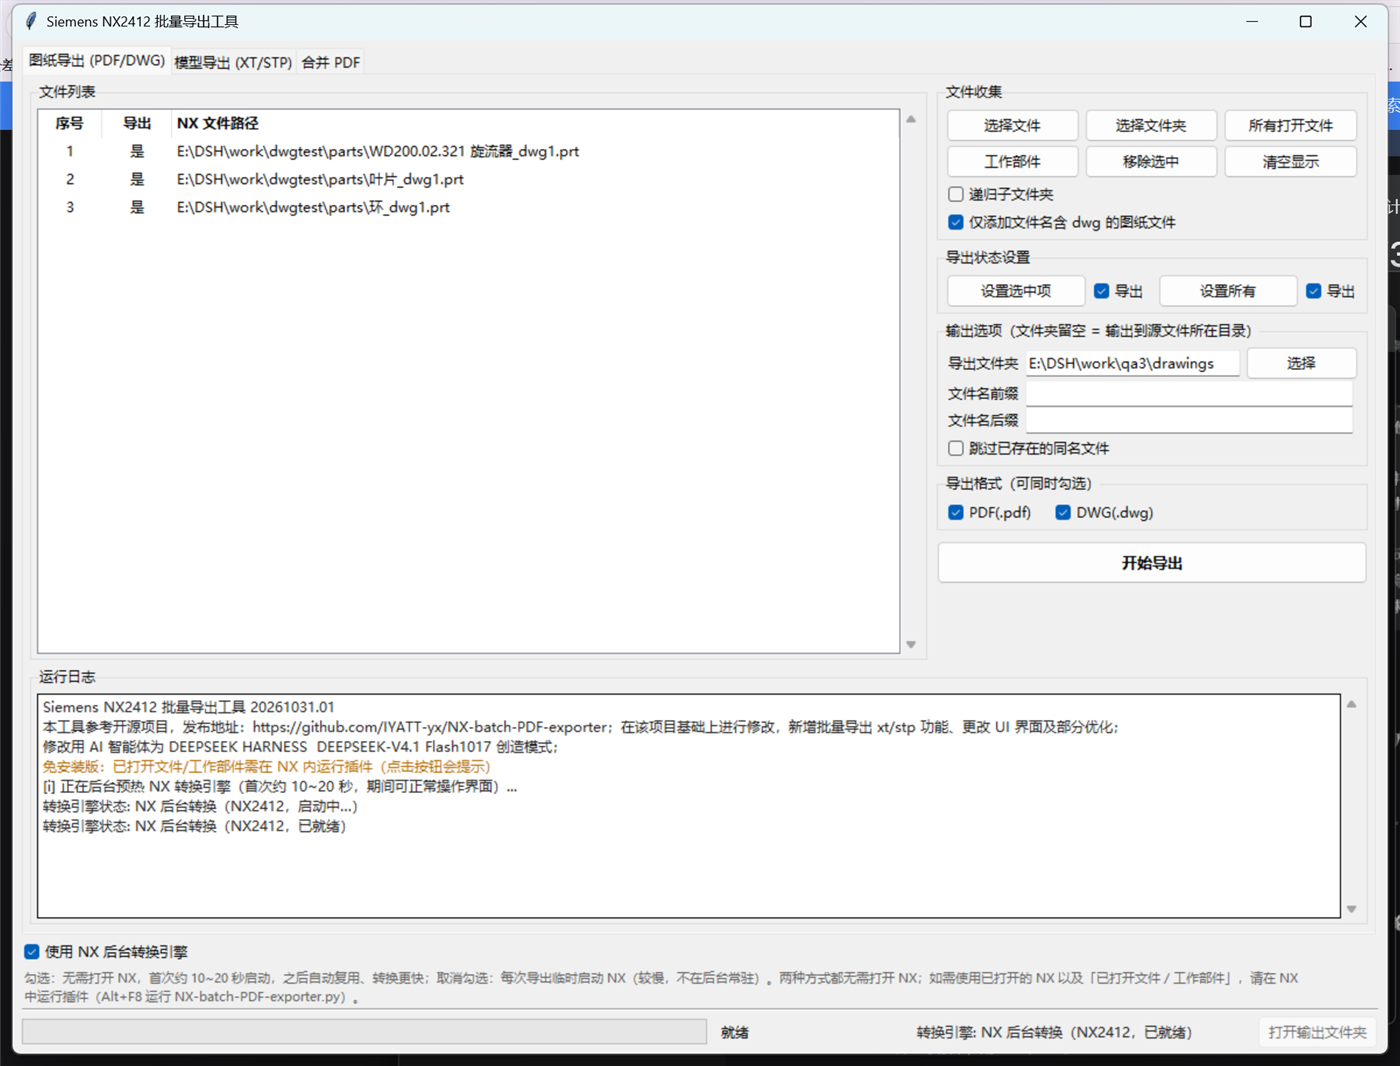
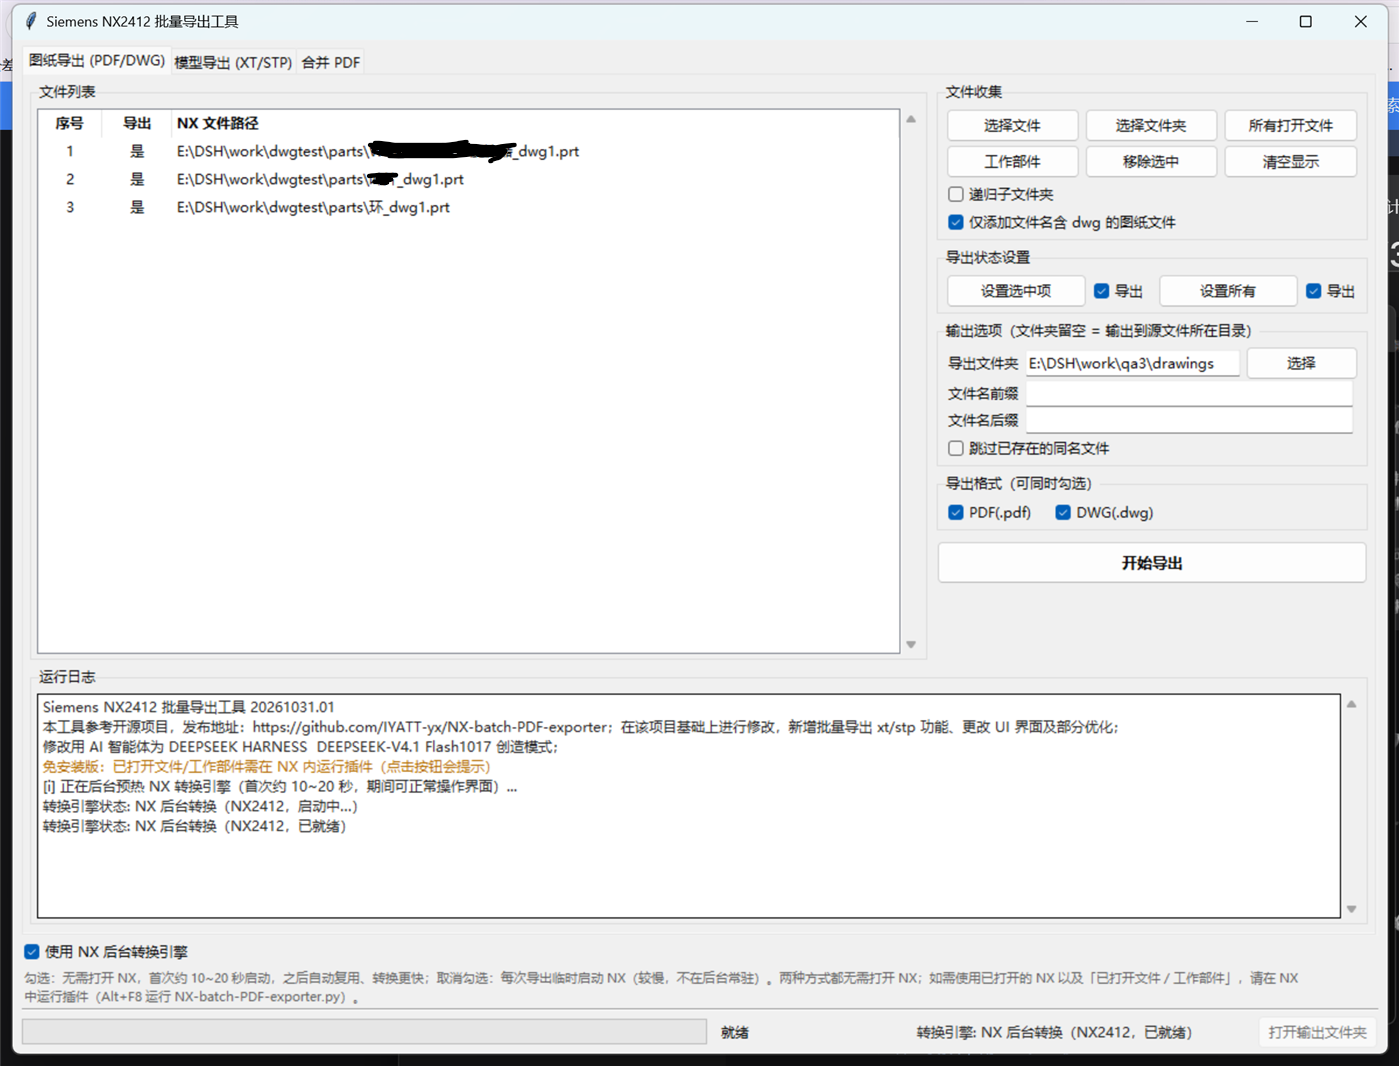
替换 README 第一张图为便携版图纸导出界面

diff --git a/README.md b/README.md
@@ -7,7 +7,7 @@
 > 本工具参考开源项目 [NX-batch-PDF-exporter](https://github.com/IYATT-yx/NX-batch-PDF-exporter)，在该项目基础上进行修改：新增批量导出 XT/STP 功能、更改 UI 界面及部分优化。  
 > 修改用 AI 智能体为 DEEPSEEK HARNESS  DEEPSEEK-V4.1 Flash1017 创造模式。
 
-![图纸导出（NX 内直连）](doc/image9.png)  
+![图纸导出（便携版）](doc/image9.png)  
 ![模型导出](doc/image10.png)  
 ![便携版界面](doc/image12.png)
 
